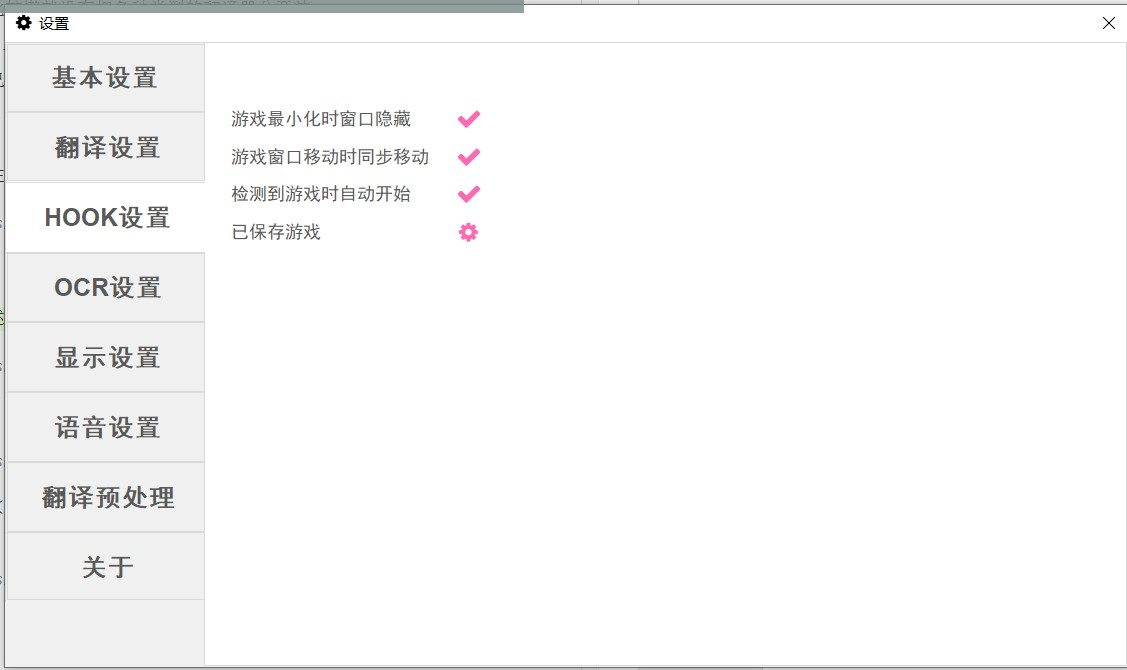
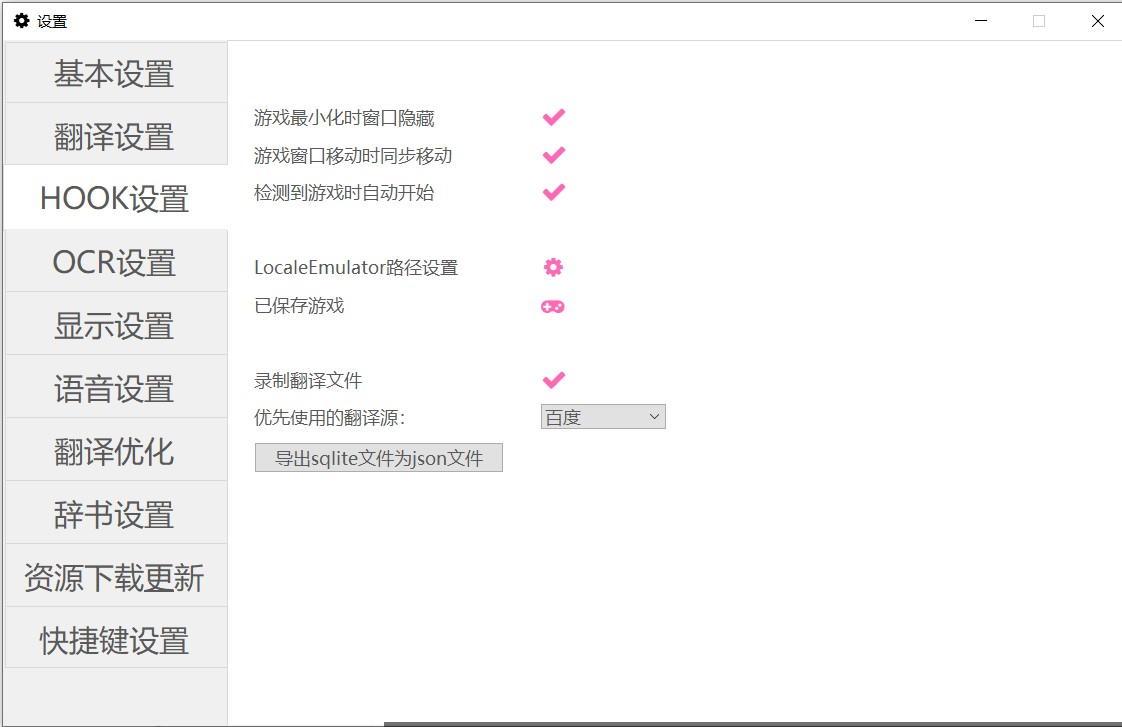
1

diff --git a/hookset.md b/hookset.md
@@ -1,8 +1,18 @@
 
 # HOOK设置
 
-一些能优化使用体验的设置。
-已保存游戏里保存了之前HOOK过的游戏和特殊码。
+LocaleEmulator设置可以设置LocaleEmulator的路径（新版本已内置），设置路径后可以通过LE启动游戏
+
+已保存游戏里保存了之前HOOK过的游戏，并可以启动游戏（在工具栏上点击打开已保存的游戏也一样）
+
+录制翻译文件可以将提取到的文本保存到transkiroku文件夹中，会输出两个文件：
+**游戏的md5_游戏的程序文件名.sqlite** 这个文件只会录制单一的翻译源输出，用于生成“人工翻译”文件。设置“优先使用的翻译源”后会优先录制这个翻译源的内容，如果翻译失败才会记录其他翻译源内容。
+**游戏的md5_游戏的程序文件名.premt_synthesize.sqlite** 这个文件用于“机器预翻译”，会记录所有有效的翻译结果。
+
+导出sqlite文件为json文件。按下这个按钮选择上述第一个第一个文件可以导出json文件，方便修改翻译结果，然后将json文件路径设置为“人工翻译”的文件路径后，则可以使用人工翻译。
+
+在剪贴板模式和OCR模式下也会录制文件，前缀分别是0_copy和0_ocr。
+
 
 <div align="center"><img src='./docpics/21.jpg'></div>
 
